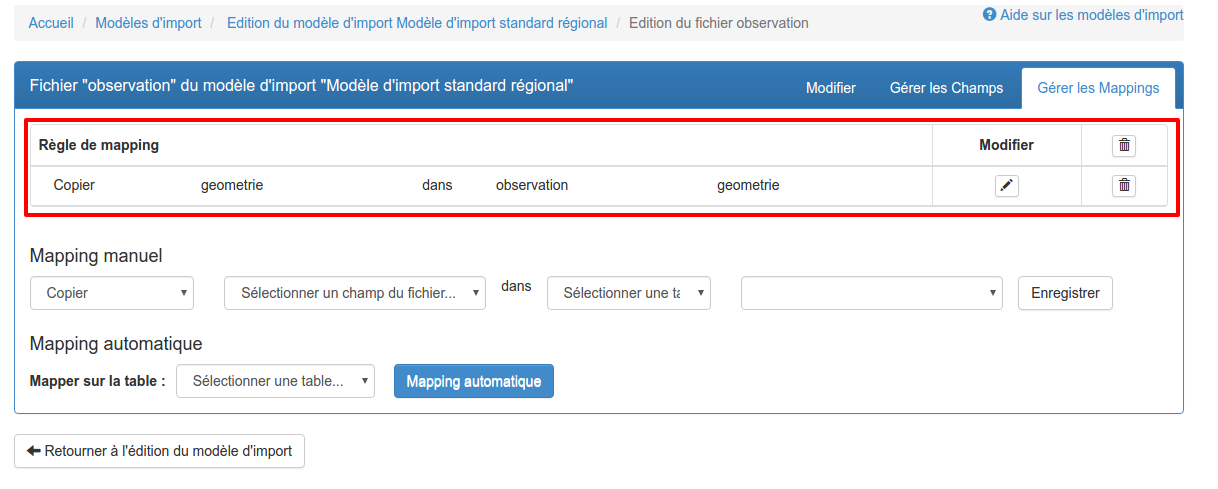
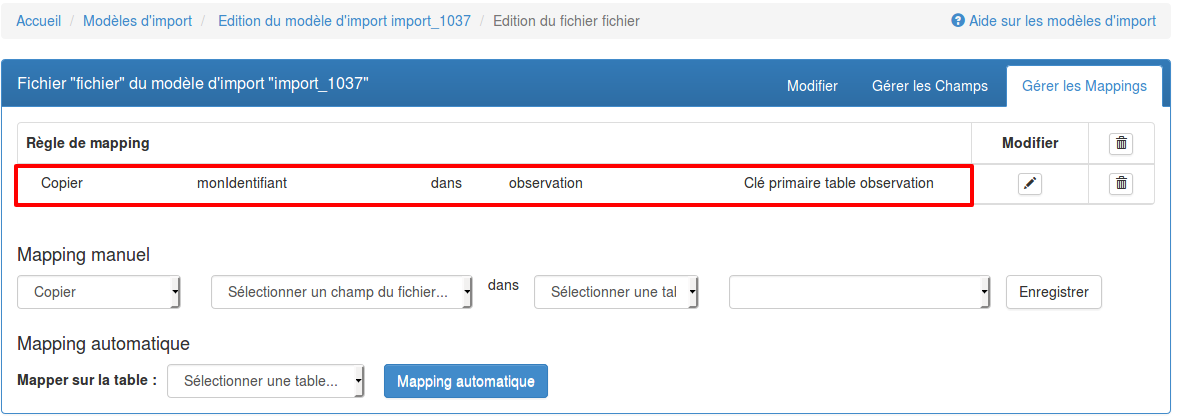
#1037: Update doc for mapping of primary key

diff --git a/documentation/user/source/configurateur/modele-d-import.rst b/documentation/user/source/configurateur/modele-d-import.rst
@@ -176,16 +176,17 @@ Une fois sur la page, deux types de mapping sont disponibles :
 Le mapping manuel
 *****************
 
-Cette fonctionnalité permet de mapper avec détail les champs spéciaux ou non-reconnus par le mapping automatique. En voici le déroulement : 
+Cette fonctionnalité permet de mapper avec détail les champs spéciaux ou non-reconnus par le mapping automatique.
+**Un cas pratique est le mapping de votre propre clé utilisateur avec la clé primaire de la table.** 
+En voici le déroulement : 
 
 1. Dans la première liste déroulante, sélectionnez l'option "Copier".
-
-2. Dans la deuxième liste déroulante, sélectionnez le champ du fichier que vous souhaitez mapper (par exemple, le champ "*geometrie*").
-3. Dans la troisième liste déroulante, sélectionnez la table dans laquelle se trouve le champ avec lequel vous souhaitez mapper le champ "*geometrie*".
-4. Dans la quatrième liste déroulante, sélectionnez le champ avec lequel mapper "*geometrie*".
+2. Dans la deuxième liste déroulante, sélectionnez le champ du fichier que vous souhaitez mapper (ici, le champ "*monIdentifiant*").
+3. Dans la troisième liste déroulante, sélectionnez la table dans laquelle se trouve le champ avec lequel vous souhaitez mapper le champ "*monIdentifiant*".
+4. Dans la quatrième liste déroulante, sélectionnez le champ avec lequel mapper "*monIdentifiant*"(ici, la clé primaire de la table, "*Clé primaire table observation*").
 5. Cliquez sur le bouton "Enregistrer".
 
-Une fois cela fait, une nouvelle règle de mapping sera créée et affichée dans un tableau dans la page de gestion des mappings :
+Une fois cela fait, une nouvelle règle de mapping sera créée et affichée dans le tableau des règles de mapping :
 
 .. image:: ../images/configurateur/configurateur-fichier-mapping-manuel.png
 
